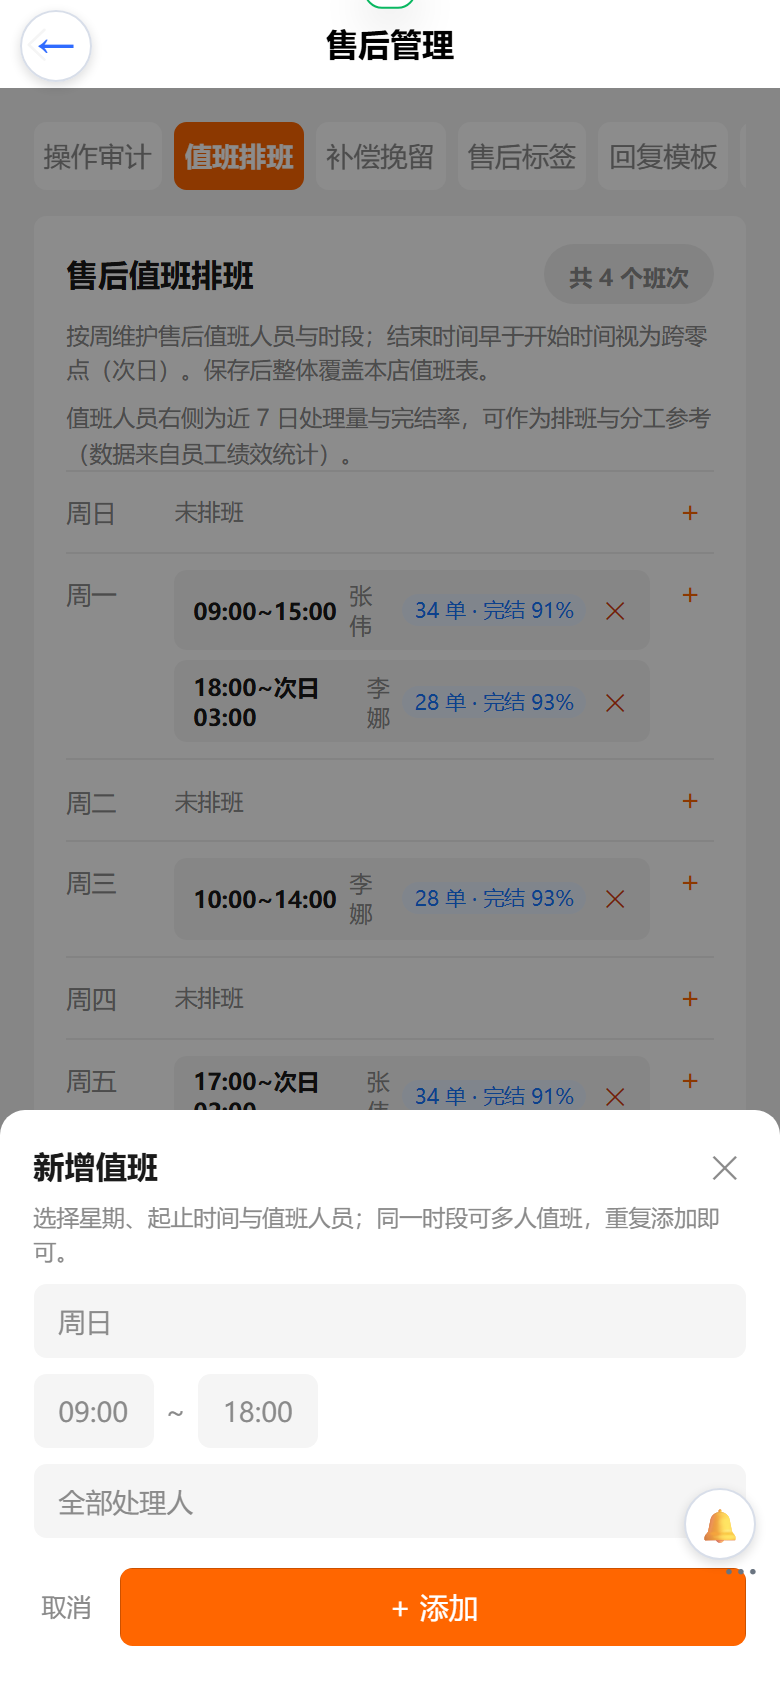
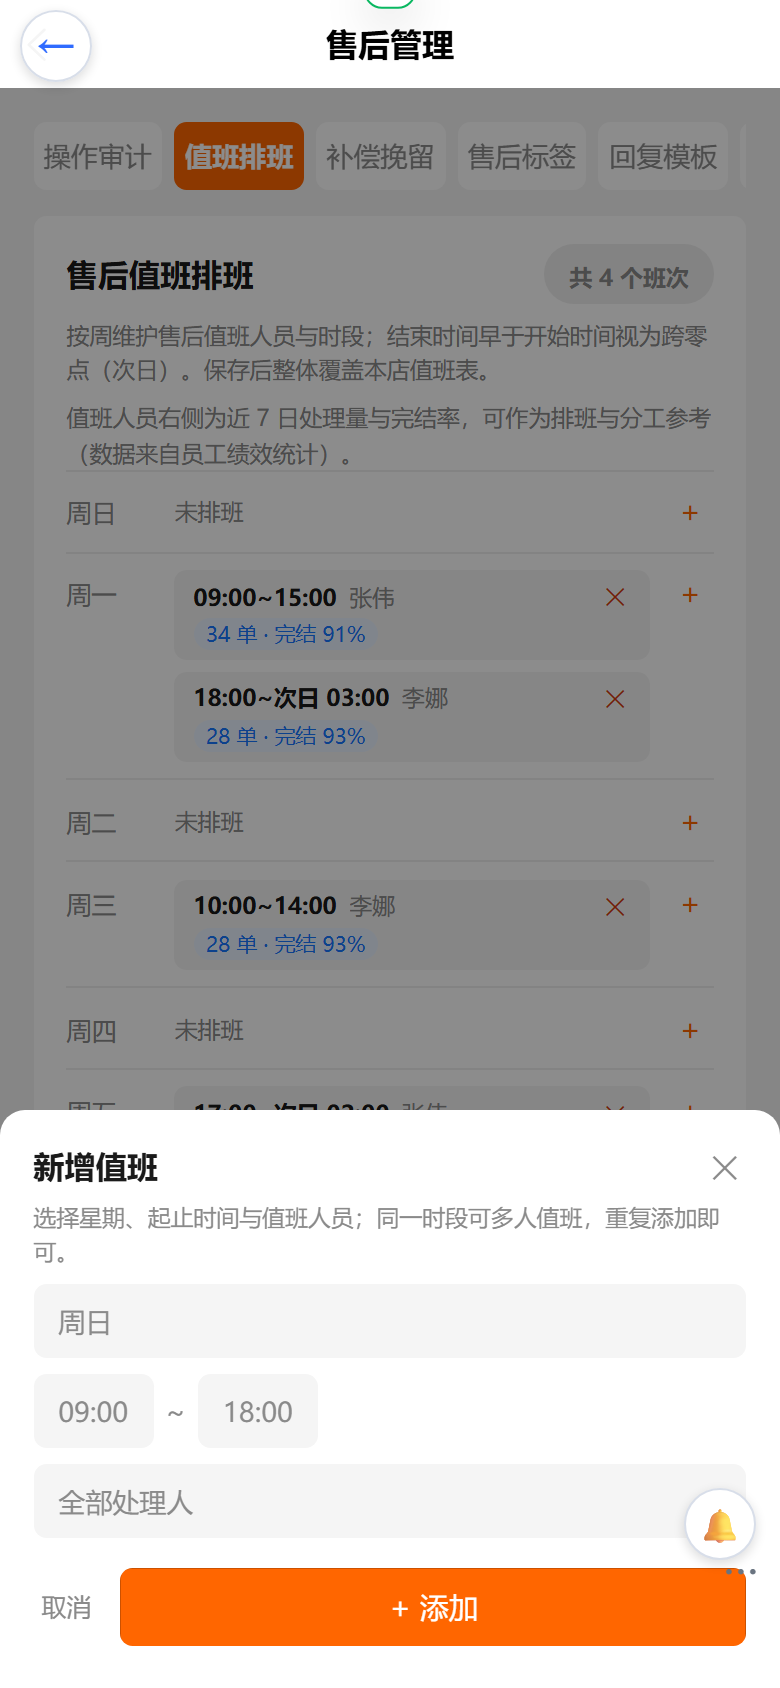
fix(waimai): 值班排班 chip 改两行布局，姓名与删除按钮同行、绩效标签独立一行
姓名为空/较长时原单行布局会把 ✕ 挤到下一行；改为 .d-line（时间+姓名+✕）+ .d-stat 两行结构，
并重跑 §100 截图、二次部署（62186 KB）与线上 chunk 校验，同步手册 §106.6。

diff --git a/web-admin/src/pages/campus/after-sales-ops.vue b/web-admin/src/pages/campus/after-sales-ops.vue
@@ -90,10 +90,12 @@
           <view class="d-items">
             <text v-if="!w.items.length" class="d-empty">{{ $t('campusAfterSalesOps.dutyNone') }}</text>
             <view v-for="it in w.items" :key="it.key" class="d-chip">
-              <text class="d-time">{{ it.text }}</text>
-              <text class="d-name">{{ it.userName || ('ID ' + it.userId) }}</text>
+              <view class="d-line">
+                <text class="d-time">{{ it.text }}</text>
+                <text class="d-name">{{ it.userName || ('ID ' + it.userId) }}</text>
+                <text class="d-del" @tap="removeDuty(w.weekday, it.key)">✕</text>
+              </view>
               <text v-if="staffText(it.userId)" class="d-stat">{{ staffText(it.userId) }}</text>
-              <text class="d-del" @tap="removeDuty(w.weekday, it.key)">✕</text>
             </view>
           </view>
           <text class="d-add" @tap="openDutySheet(w.weekday)">+</text>
@@ -1519,12 +1521,14 @@ onPullDownRefresh(async () => {
     }
     .d-items { flex: 1; display: flex; flex-direction: column; gap: 10rpx;
       .d-empty { font-size: 22rpx; color: $wa-muted; padding-top: 8rpx; }
-      .d-chip { display: flex; align-items: center; gap: 12rpx; background: $wa-bg;
+      .d-chip { display: flex; flex-direction: column; gap: 6rpx; background: $wa-bg;
         border-radius: $wa-radius; padding: 10rpx 18rpx;
-        .d-time { font-size: 22rpx; color: $wa-ink; font-weight: 600; }
-        .d-name { flex: 1; font-size: 22rpx; color: $wa-muted; }
-        .d-stat { flex: none; font-size: 20rpx; color: #1677ff; background: #eaf3ff;
-          border-radius: 999rpx; padding: 2rpx 12rpx; }
+        .d-line { display: flex; align-items: center; gap: 12rpx; }
+        .d-time { flex: none; font-size: 22rpx; color: $wa-ink; font-weight: 600; white-space: nowrap; }
+        .d-name { flex: 1; min-width: 0; font-size: 22rpx; color: $wa-muted;
+          white-space: nowrap; overflow: hidden; text-overflow: ellipsis; }
+        .d-stat { align-self: flex-start; font-size: 20rpx; color: #1677ff; background: #eaf3ff;
+          border-radius: 999rpx; padding: 2rpx 12rpx; white-space: nowrap; }
         .d-del { font-size: 24rpx; color: #d4380d; padding: 0 6rpx; }
       }
     }

diff --git a/docs/waimai-操作手册.md b/docs/waimai-操作手册.md
@@ -5588,8 +5588,8 @@ query ($from: String!, $to: String!, $kind: String!) {
 | 端 | 动作 | 结果 |
 |---|---|---|
 | 后端 | `npx tsc -p tsconfig.build.json` → 覆盖 `/www/apps/vendure/packages/campus-delivery-plugin/lib/src/merchant-admin.service.js(+.map)` → `pm2 restart vendure` | restarts 826，status online；探针 1 PASS |
-| 后台 | `node D:\zhao\vshop\web-admin\scripts\deploy.mjs` | `[deploy] 产物校验通过: 62185 KB` → nginx `test is successful` + reload → `deploy done` |
-| 线上 chunk | `https://e.joho.cn/guanli/assets/` | `pages-campus-after-sales-analytics.Bz7N-Qct.js` 200 / 26394 B、`after-sales-analytics-DAEtPRTp.css` 200 / 12748 B、`pages-campus-after-sales-automation.co_GwJ1r.js` 200 / 19606 B、`after-sales-automation-B1zkRaqb.css` 200 / 6023 B、`pages-campus-after-sales-ops.BcMui0RV.js` 200 / 42909 B、`after-sales-ops-BxpQuLWM.css` 200 / 11126 B |
+| 后台 | `node D:\zhao\vshop\web-admin\scripts\deploy.mjs`（二次部署含值班 chip 两行布局修正） | `[deploy] 产物校验通过: 62186 KB` → nginx `test is successful` + reload → `deploy done` |
+| 线上 chunk | `https://e.joho.cn/guanli/assets/` | `pages-campus-after-sales-analytics.CfiB_vK3.js` 200 / 26394 B、`after-sales-analytics-DAEtPRTp.css` 200 / 12748 B、`pages-campus-after-sales-automation.D58hP-9A.js` 200 / 19606 B、`after-sales-automation-B1zkRaqb.css` 200 / 6023 B、`pages-campus-after-sales-ops.Bk2PJl9v.js` 200 / 42959 B、`after-sales-ops-BdptS6WB.css` 200 / 11362 B |
 
 操作入口：售后分析页「导出」→ 选「员工处理绩效」；「售后申请」→ 值班排班（chip 处理参考）；「售后申请」→ 售后自动化 → 自动分配卡（建议分配参考）。
 
